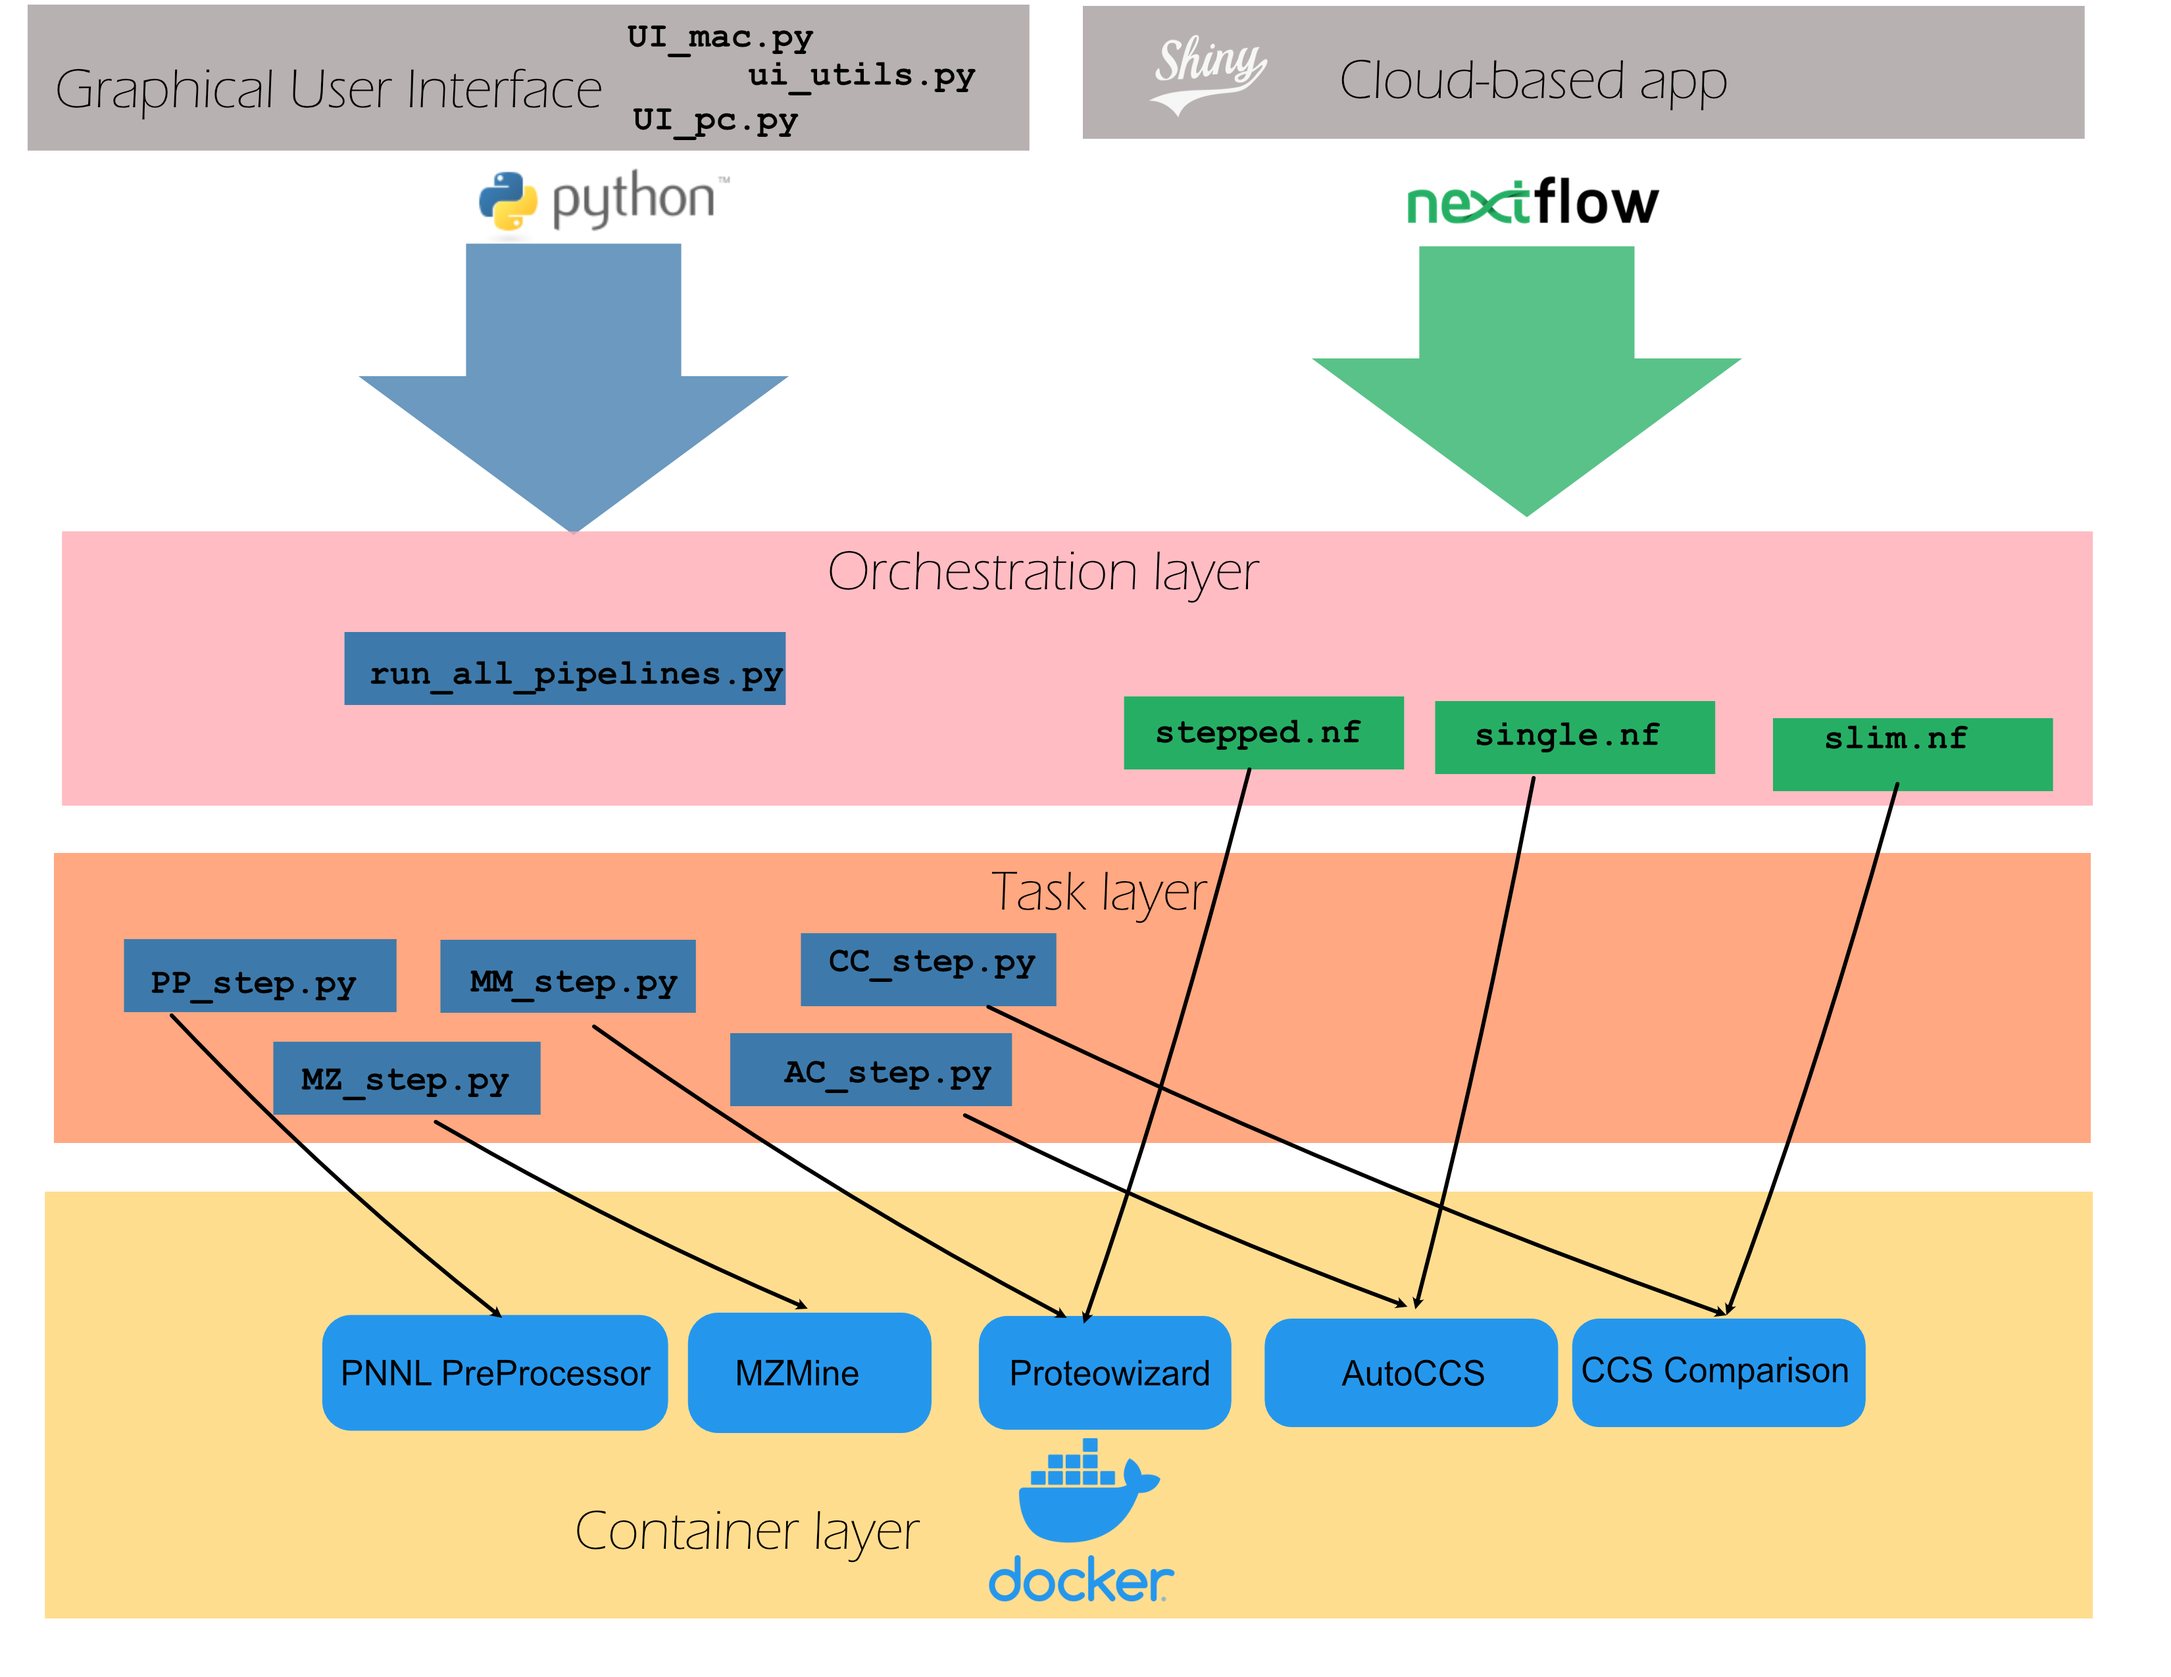
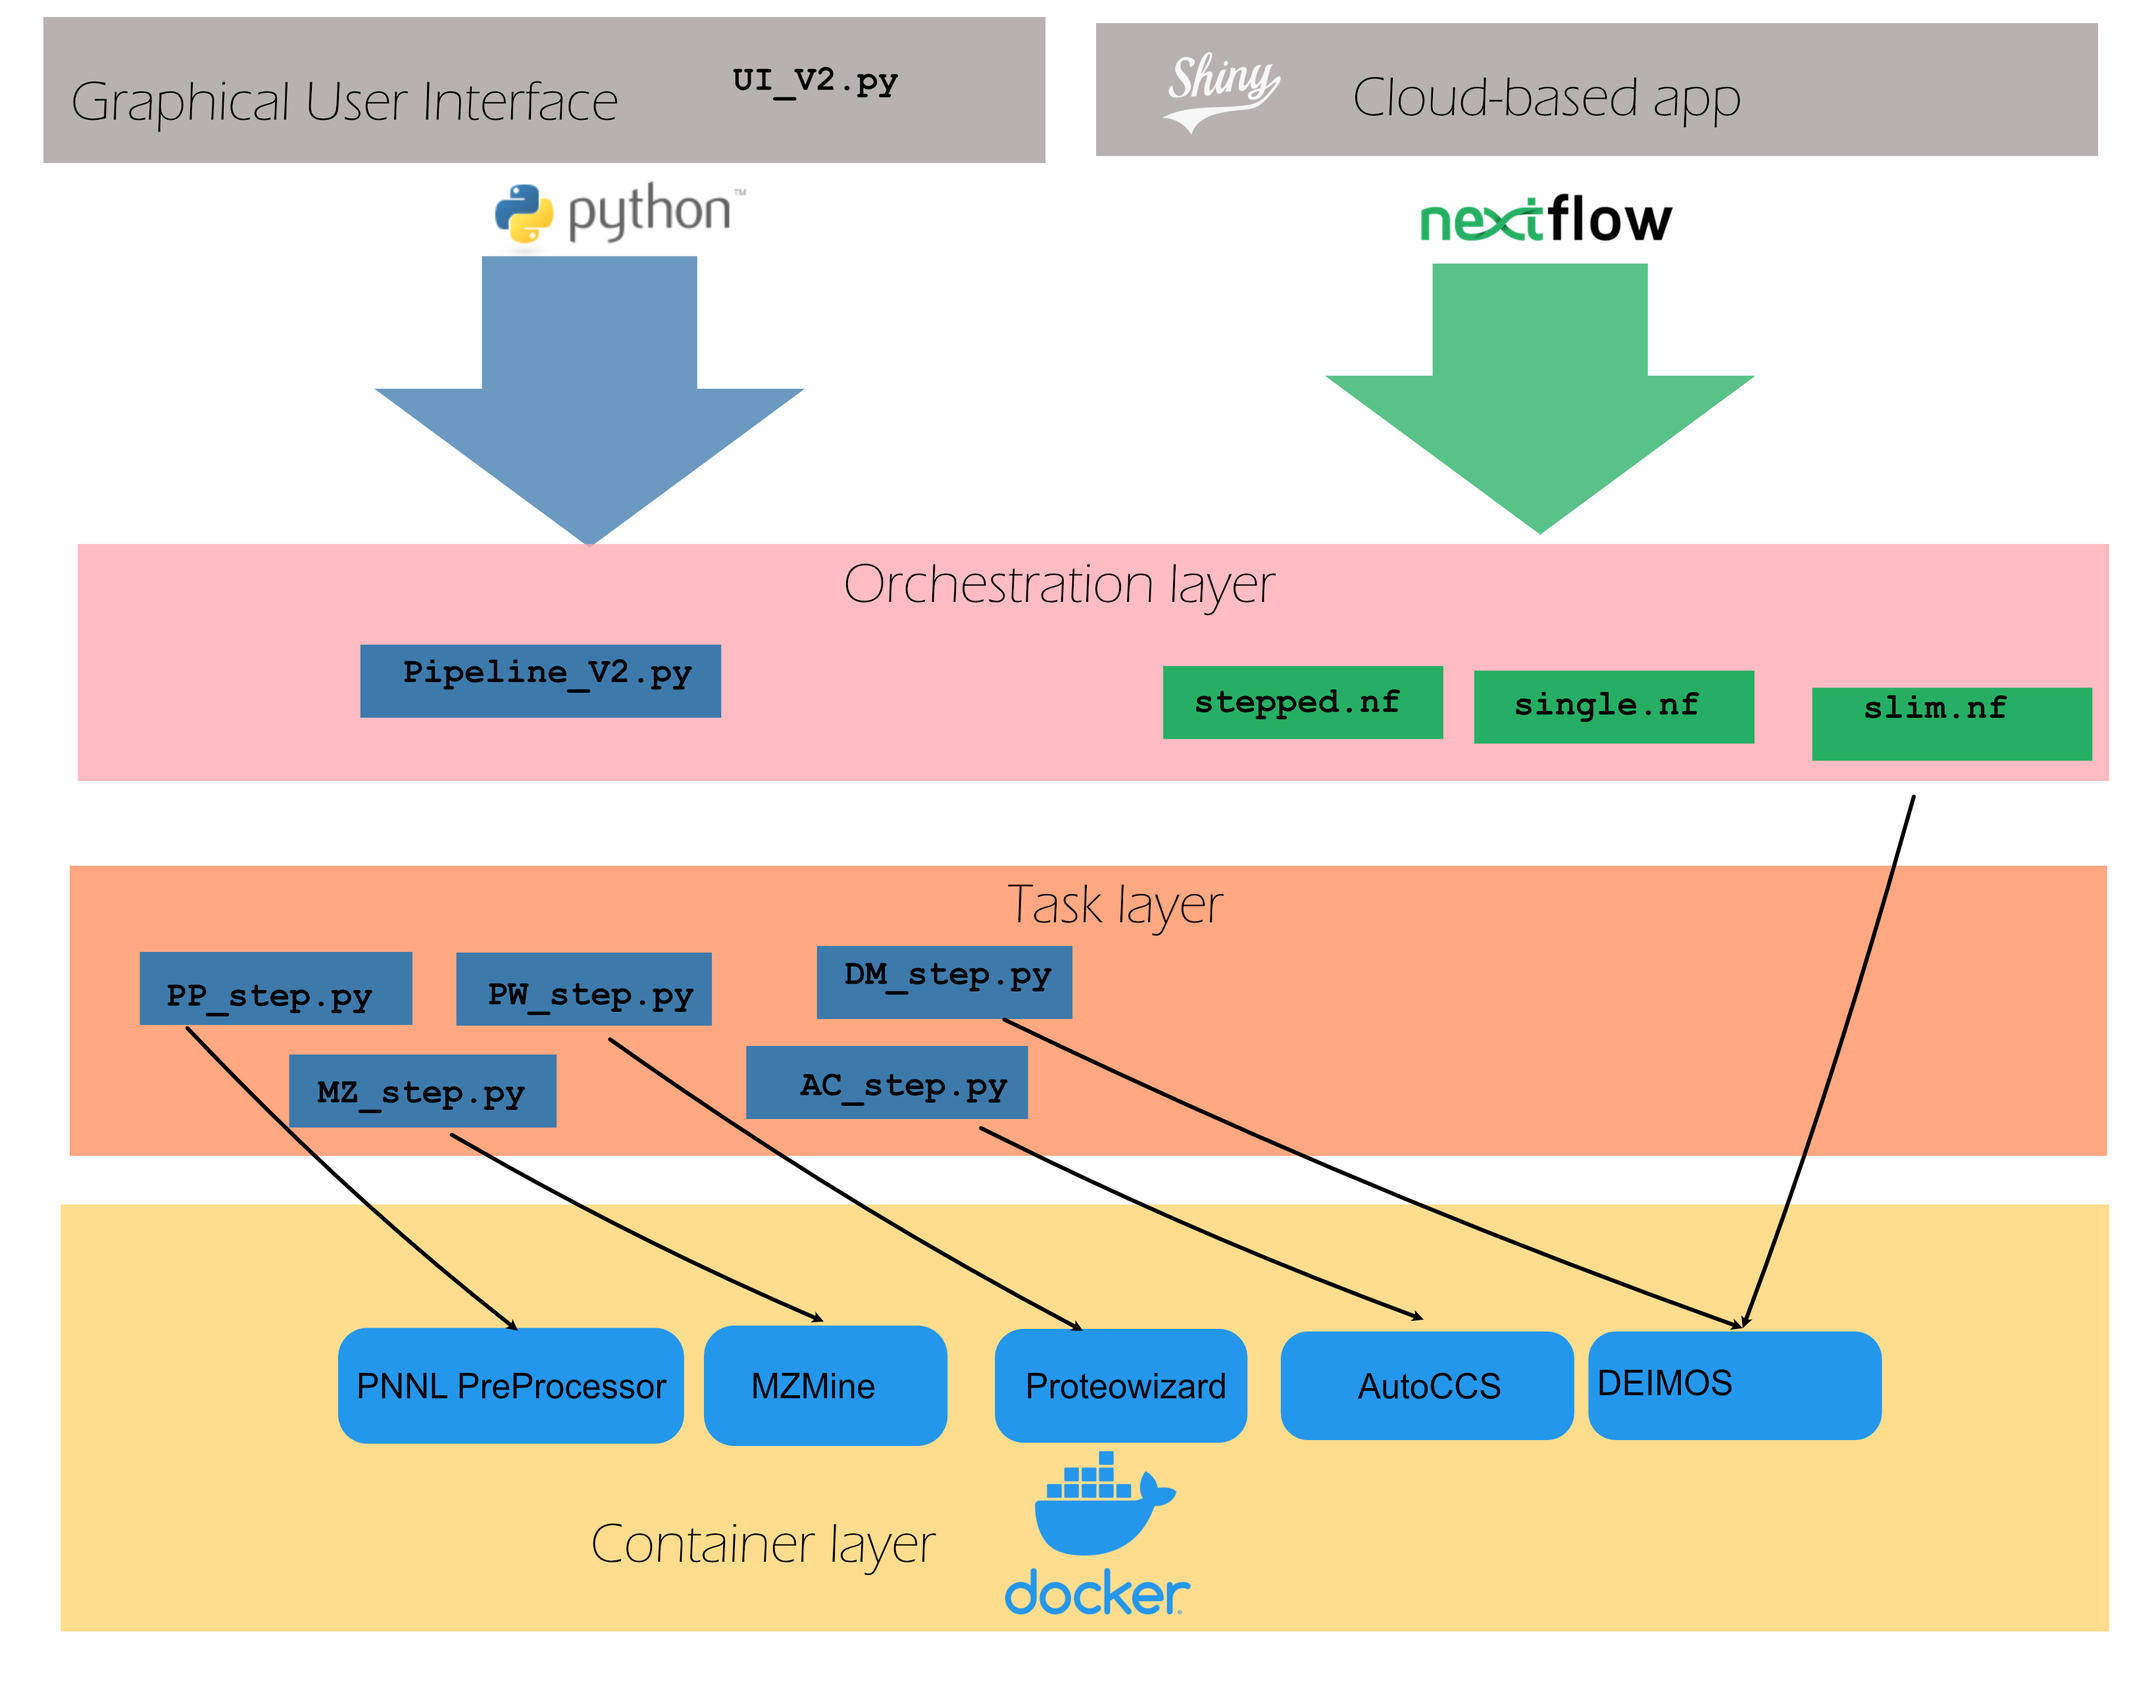
slight updates to documentation of README
I think they're all accurate.

diff --git a/README.md b/README.md
@@ -1,29 +1,35 @@
 # ion-mob-ms
 This is a workflow for analyzing Ion Mobility Mass-Spectrometry data. The primary goal is to facilitate the numerous steps required to analyze and interpret this type of data, as it requires numerous steps and file management can be a burden.
 
-The full documentation, instructions on usage, tool descriptions, and troubleshooting tips should be viewed [here](https://pnnl-compbio.github.io/ion-mob-ms). 
+The full documentation, instructions on usage, tool descriptions, and troubleshooting tips should be viewed [here](https://pnnl-compbio.github.io/ion-mob-ms).
 
 ## Architecture
-The system is designed to enable users to run individual parts via the command line, using a graphical user interface, or using Nextflow.
+The system is designed to enable users to run individual parts via the command line, using a graphical user interface, or using Nextflow. Currently only the GUI portions are implemented, however we believe that in subsequent versions we will be able to automate the analysis as shown below.
 
 <img src="architecture.png" width="500">
 
 Each mode has separate needs for input files, but runs a combination of the modules depicted below.
 
 ### Dockerized framework
+The guiding design principle behind the IMMS Dashboard is to enable the use of existing tools for reproducible analysis of Ion Mobility MS data. The use of Docker enables this abstraction to be flexible as we want to run a series of tools in an arbitrary order.
 
 ### Task framework
 
+The task framework, shown above in orange, depicts wrapper scripts that run each Docker container. These can also be expanded as more docker containers are added.
+
 ### Orchestration
 
+The orchestration layer enables the linking of individual tasks together. For example, in our Dashboard we allow for the analysis of Ion Mobility data collected via a single field or stepped field. As such, we must run different tools.
+
 ### User interface
+The user interface module enables users to upload files directly to the system.
 
 ## Installation
 To download and use this tool, please check out our [documentation site](https://pnnl-compbio.github.io/ion-mob-ms) for more details.
 
 ## Contribution
 
-We will add tools to enable to contribute.
+To contribute, please post an issue to the GitHub page. We are eager to include other tools in this framework.
 
 
 ## Summary
